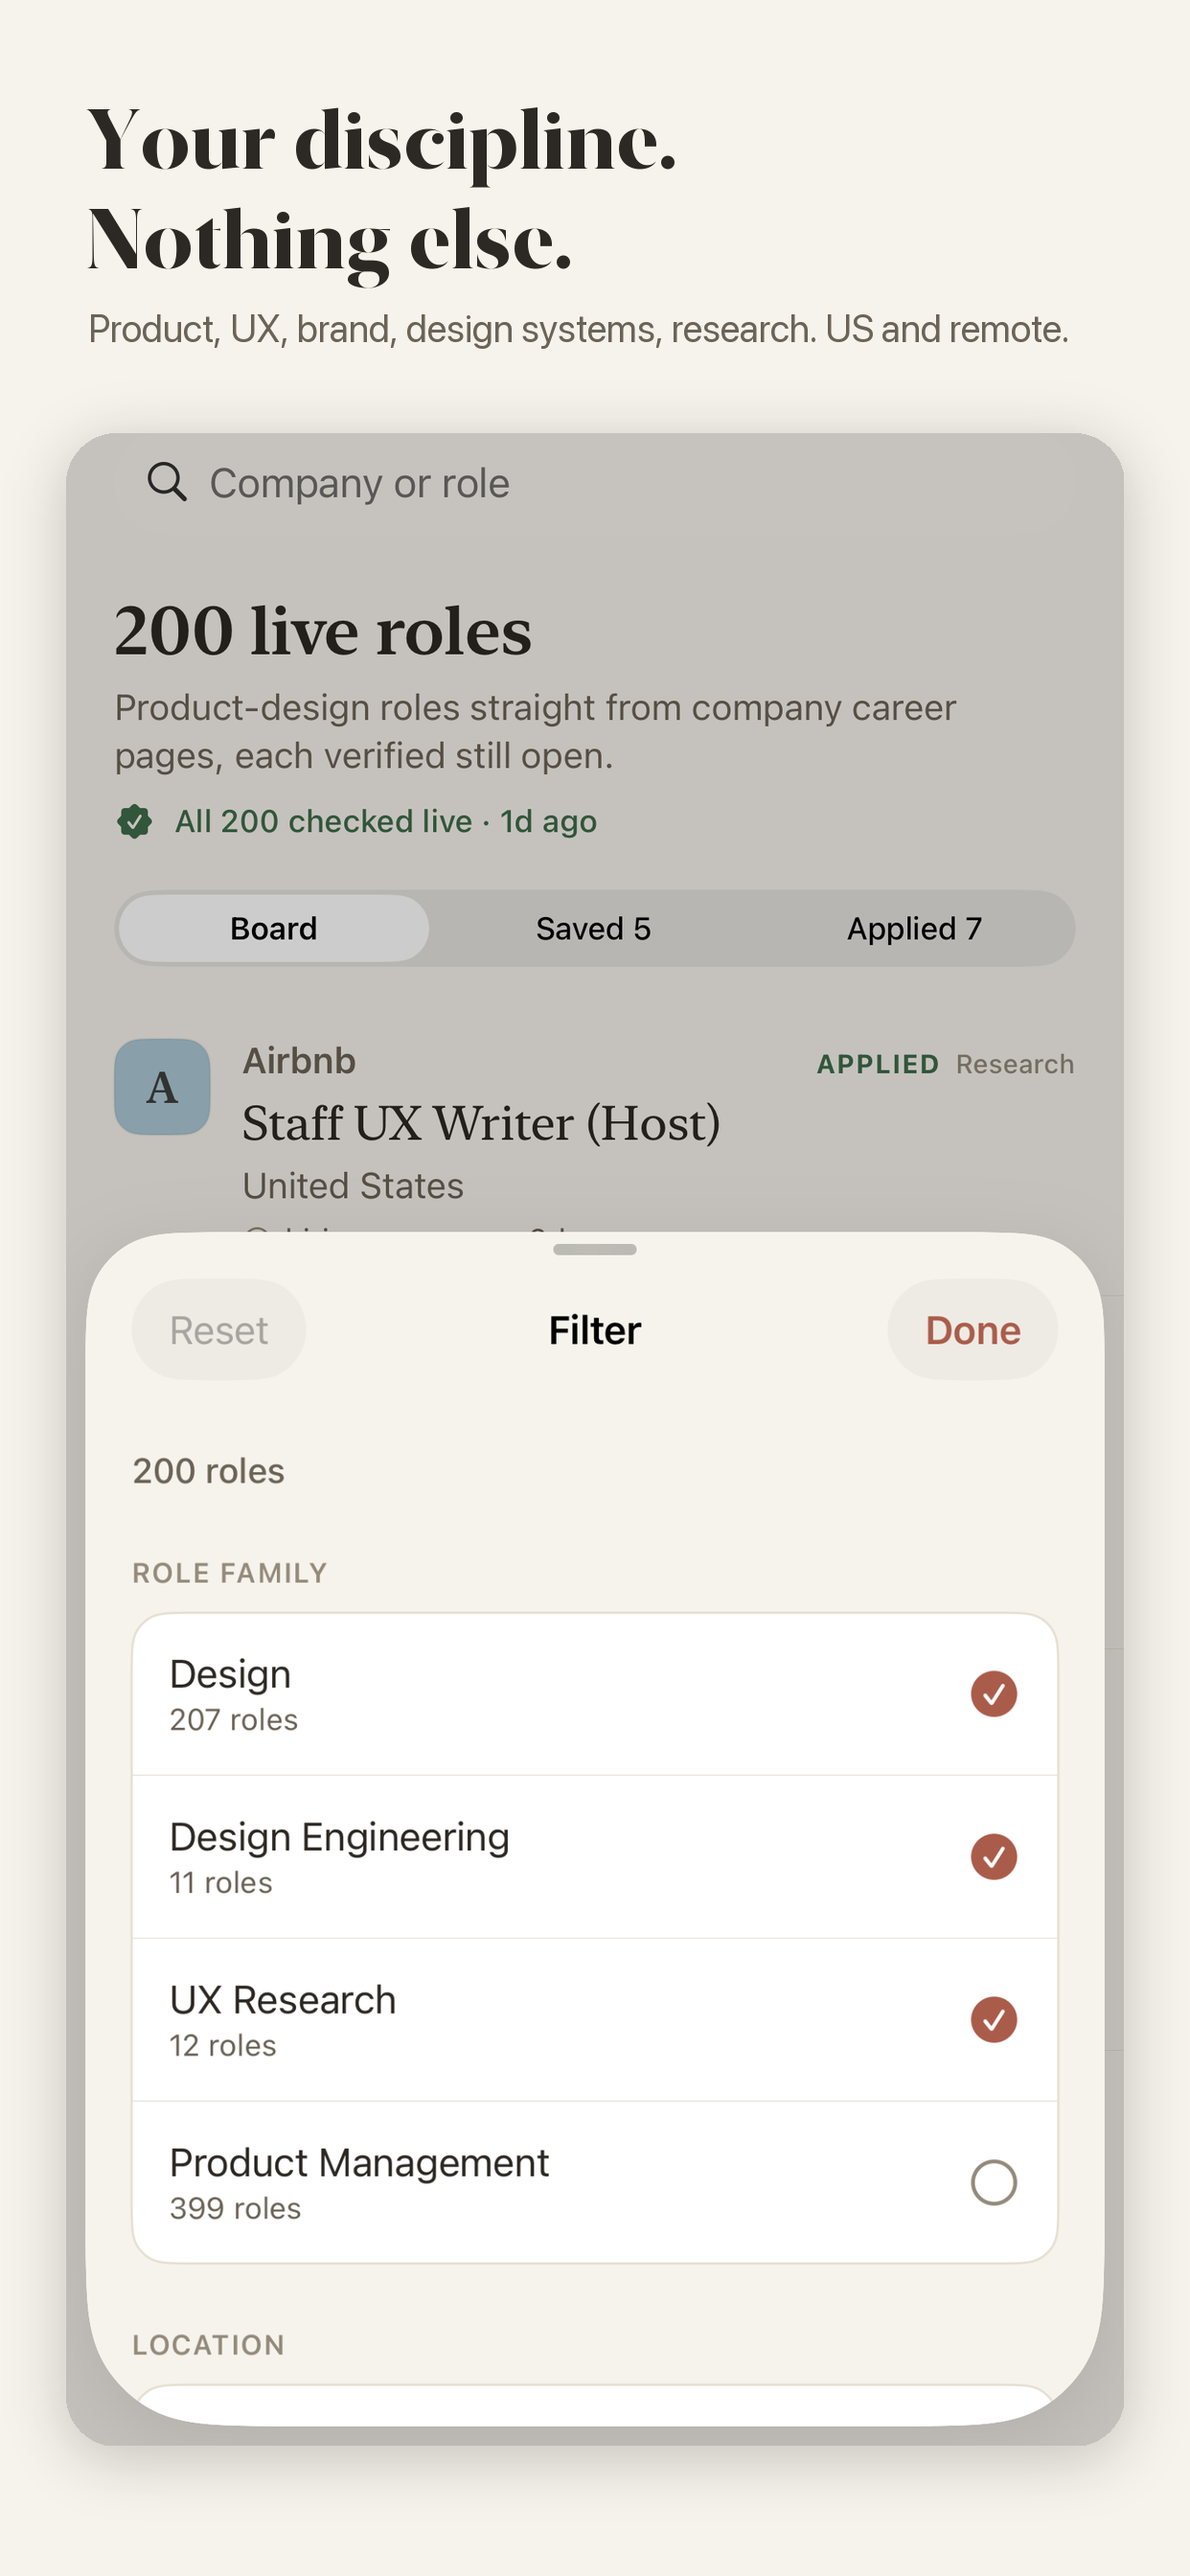
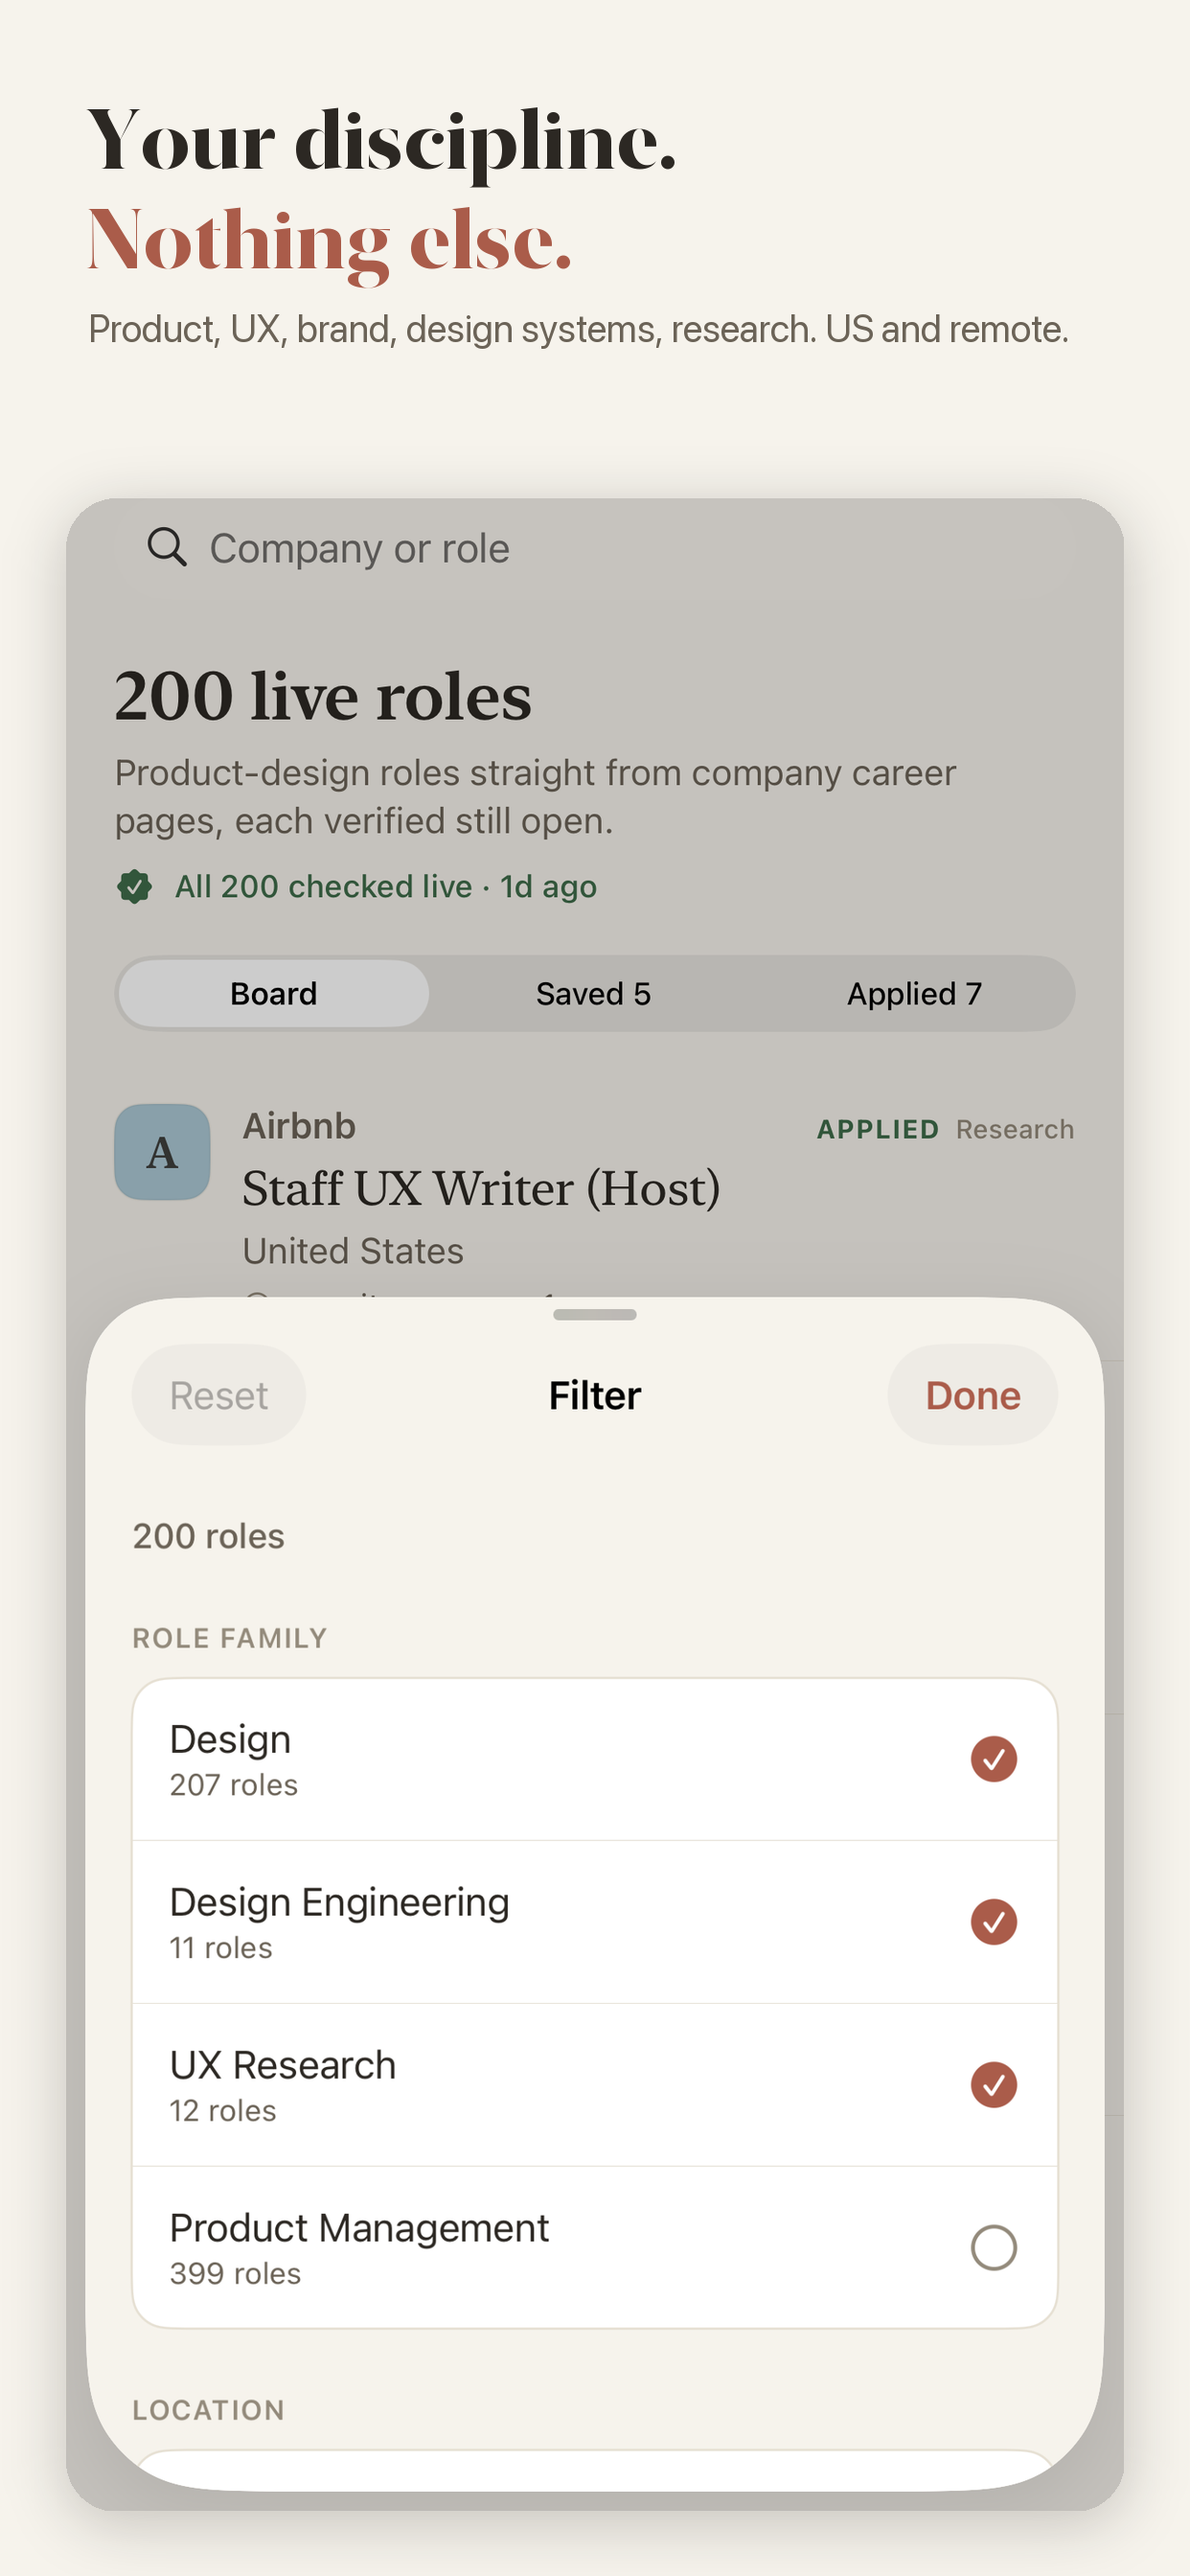
Regenerate framed App Store screenshots + update ASO playbook
Regenerated all sets from fresh captures:
  iphone-6.9 / iphone-6.5: 01 board, 02 verified, 03 applications, 04 filter,
    05 icons, 06 privacy
  ipad-13:                  01-05 (no privacy)

Removes the stale 05-privacy.png (now 05-icons + 06-privacy). Updates
ASO_PLAYBOOK.md screenshot table with the shipped captions/accents, the fixed
order, the iPad-set note, and the NewYork hyphen gotcha; marks the Fellows
review items resolved.

Claude-Session: https://claude.ai/code/session_01JU5zcJbM2TTYxVaBMQ7gym

diff --git a/ios/AppStore/ASO_PLAYBOOK.md b/ios/AppStore/ASO_PLAYBOOK.md
@@ -24,14 +24,22 @@ idea per frame, real captured UI, big legible captions.
 
 ### Screenshot set — target order
 
-| # | Screen | Caption (headline / subline) | Status |
+| # | Screen | Caption (headline / subline · terracotta accent) | Status |
 |---|---|---|---|
-| 1 | **Board** — "All N checked live" badge visible | *Every design job,\nverified live.* / Straight from the company. No ghost jobs, no dead links. | ✅ good |
-| 2 | **Role detail** — the verified-live proof card | *Re-checked before\nyou ever see it.* / Rolecall opens the posting and confirms the role is really there. | ⚠ **dead whitespace in shot** |
-| 3 | **Applications** — funnel from screen to offer | *Track every application\nthrough to the offer.* / Recruiter screen, hiring manager, final round, offer — one place. | ⚠ **all-"A" monograms, AngelList shown** |
-| 4 | **Filter sheet** — discipline scoping | *Your discipline.\nNothing else.* / Product, UX, design systems, research. US and remote. | ✅ good |
-| 5 | **Icon variants** — Classic / Midnight / Mono | *Made for the people\nwho'll judge it hardest.* / Three icons, dark mode, Dynamic Type, VoiceOver — first-pass. | ➕ **add (design-craft signal)** |
-| 6 | **Privacy** — "Data Not Collected" beat | *No account.\nNo trackers. Ever.* / Your whole search stays on your device. Nothing is sent anywhere. | ⚠ **top crop clips header** |
+| 1 | **Board** — "All N checked live" badge visible | *Every design job,\nverified live.* / Straight from the company. No ghost jobs, no dead links. · **verified live.** | ✅ hero |
+| 2 | **Role detail** — the verified-live proof card | *Rechecked before\nyou ever see it.* / Rolecall opens the posting and confirms the role is really there. · **Rechecked** | ✅ reshot — opened from Saved list, `crop_bottom` past the empty zone, shot vertically centred |
+| 3 | **Applications** — funnel from screen to offer | *Track every application\nthrough to the offer.* / Recruiter screen, hiring manager, final round, offer — one place. · **offer.** | ✅ reseeded — Figma/Linear/Notion/Stripe/Ramp/Duolingo/Airbnb, varied monograms, no competitor |
+| 4 | **Filter sheet** — discipline scoping | *Your discipline.\nNothing else.* / Product, UX, brand, design systems, research. US and remote. · **Nothing else.** | ✅ good |
+| 5 | **Icon variants** — Classic / Midnight / Mono | *Made for the people\nwho'll judge it hardest.* / Three icons, dark mode, Dynamic Type, VoiceOver — all first-pass. · **hardest.** | ✅ added — composited in `frame.py` from the shipped 1024 PNGs |
+| 6 | **Privacy** — "Data Not Collected" beat | *No account.\nNo trackers. Ever.* / Your whole search stays on your device. Nothing is sent anywhere. · **Ever.** | ✅ reshot — scrolls to the bottom; crop opens on the Job-search card + Privacy section |
+
+Final order is fixed: 01 board → 02 verified-detail → 03 applications → 04 filter → 05 icons → 06 privacy.
+iPad set is 01–05 (privacy is iPhone-only — Settings on iPad is a small centred form-sheet that
+does not read as a trust beat). Pipeline: `ios/AppStore/capture.sh` (clean 9:41 status bar) → `frame.py`.
+
+> **Headline font gotcha:** `/System/Library/Fonts/NewYork.ttf` renders a hyphen (U+002D, and
+> U+2010/U+2011) as a blank — an en dash renders, a hyphen does not. Keep headline copy
+> hyphen-free ("Rechecked", not "Re-checked"). Sublines use SFNS and are fine.
 
 ### Fellows craft review — 2026-09-09
 
@@ -40,29 +48,32 @@ idea per frame, real captured UI, big legible captions.
 calm, distinctive, exactly the calm-privacy-first aesthetic Apple editorial
 rewards. Real UI, benefit-led captions, one idea per frame.
 
-**Fix before submission:**
-1. **02 (role detail):** ~500px dead whitespace mid-shot — the detail view's short
-   content + bottom-pinned Apply button. Fix at the source: seed a longer role, or
-   capture the detail as a partial-height card over the board, or tighten the crop.
-2. **03 (applications):** the seed sorts companies alphabetically and takes the
-   first 7 → every application is an A-company → every monogram renders "A" (reads
-   like a bug), and **AngelList (a competitor) is shown prominently** (App Review +
-   optics risk). Fix `UITestSupport` to seed a curated set of varied, recognizable,
-   **non-competitor** design employers (Figma, Linear, Notion, Stripe, Ramp,
-   Duolingo, Airbnb, Vercel, Instacart, Discord, Retool, Webflow…).
-3. **06 (privacy):** top crop clips the "Job search" section header and leaves a
-   floating white pill fragment. Fix the crop offset per-shot.
-4. **iPad set:** the frame.py comment admits cropping around "a stray simulator
-   corner artifact" — fix at capture (clean status-bar override), don't crop around.
-5. **Headline accent consistency:** #1 and #3 accent one word in terracotta; #2/#4/#6
-   don't. Accent the one payoff word in every headline, or none.
-6. **Caption tightening:** "We check it's still open before you tap through" → the
-   punchier "Re-checked before you ever see it."
+**Fixed (branch `appstore-screenshots-v2`, 2026-09-09):**
+1. **02 (role detail):** ~500px dead whitespace — resolved. The detail is opened from the
+   Saved list (so the role is always a curated non-competitor), `frame.py` `crop_bottom`
+   ends the shot just below the source note, and short shots are vertically centred in the
+   paper so the margin reads as deliberate. No app UI change was needed.
+2. **03 (applications):** `UITestSupport` now seeds a hand-picked, varied, non-competitor
+   set (`curatedCompanies`) matched to real board postings, with an explicit
+   `competitorCompanies` exclusion set (LinkedIn, Indeed, Dribbble, Wellfound, AngelList,
+   Glassdoor, Otta, …). Monograms are now F/L/N/S/R/D/A; the funnel reads applied →
+   recruiter screen → hiring manager → interviewing → final round → offer.
+3. **06 (privacy):** the test scrolls to the bottom of Settings (a fixed rest position);
+   `frame.py` crops to the Job-search card so the frame opens on a section boundary with
+   the Privacy card as the hero. No floating pill, no clipped header.
+4. **iPad set:** `capture.sh` applies `simctl status_bar override` (clean 9:41); the
+   preset crops the status bar out and a small `crop_bottom_default` + larger corner
+   radius removes the display's rounded-corner arc at the source instead of cropping
+   around it.
+5. **Headline accents:** every headline now accents exactly one payoff phrase in
+   terracotta (see the table above).
+6. **Caption tightening:** 02 is now "Rechecked before / you ever see it." ("Rechecked",
+   not "Re-checked" — the NewYork headline font drops hyphens; see the gotcha above).
 
 - [x] **Icon** — Classic / Midnight / Mono ship; legible at Home-Screen size
-- [ ] Fix screenshots 2, 3, 6 + iPad artifact per the review above
-- [ ] Add the icon-variants frame (#5)
-- [ ] Regenerate all sets: 6.9″ (1320×2868), 6.5″ (1242×2688), 13″ iPad (2048×2732)
+- [x] Fix screenshots 2, 3, 6 + iPad artifact per the review above
+- [x] Add the icon-variants frame (#5)
+- [x] Regenerate all sets: 6.9″ (1320×2868), 6.5″ (1242×2688), 13″ iPad (2048×2732 — 01–05)
 - [ ] (Optional) 15–20s App Preview — one real "open a role → verified live → apply" loop
 - [ ] Post-launch product-page A/B test: hero screenshot order first
 
